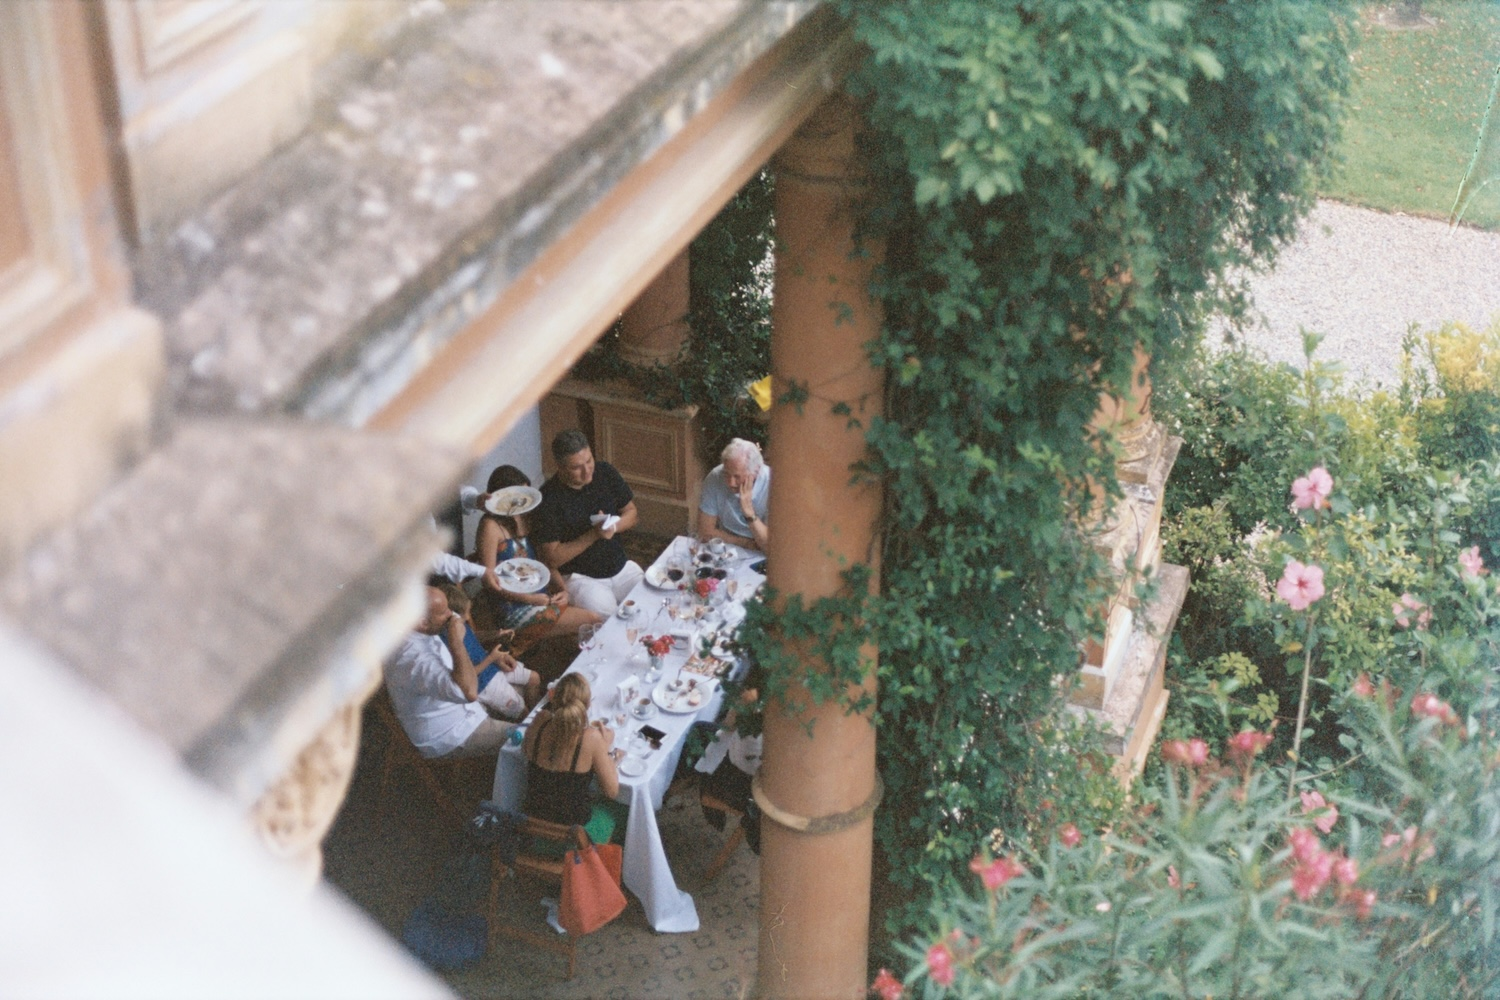
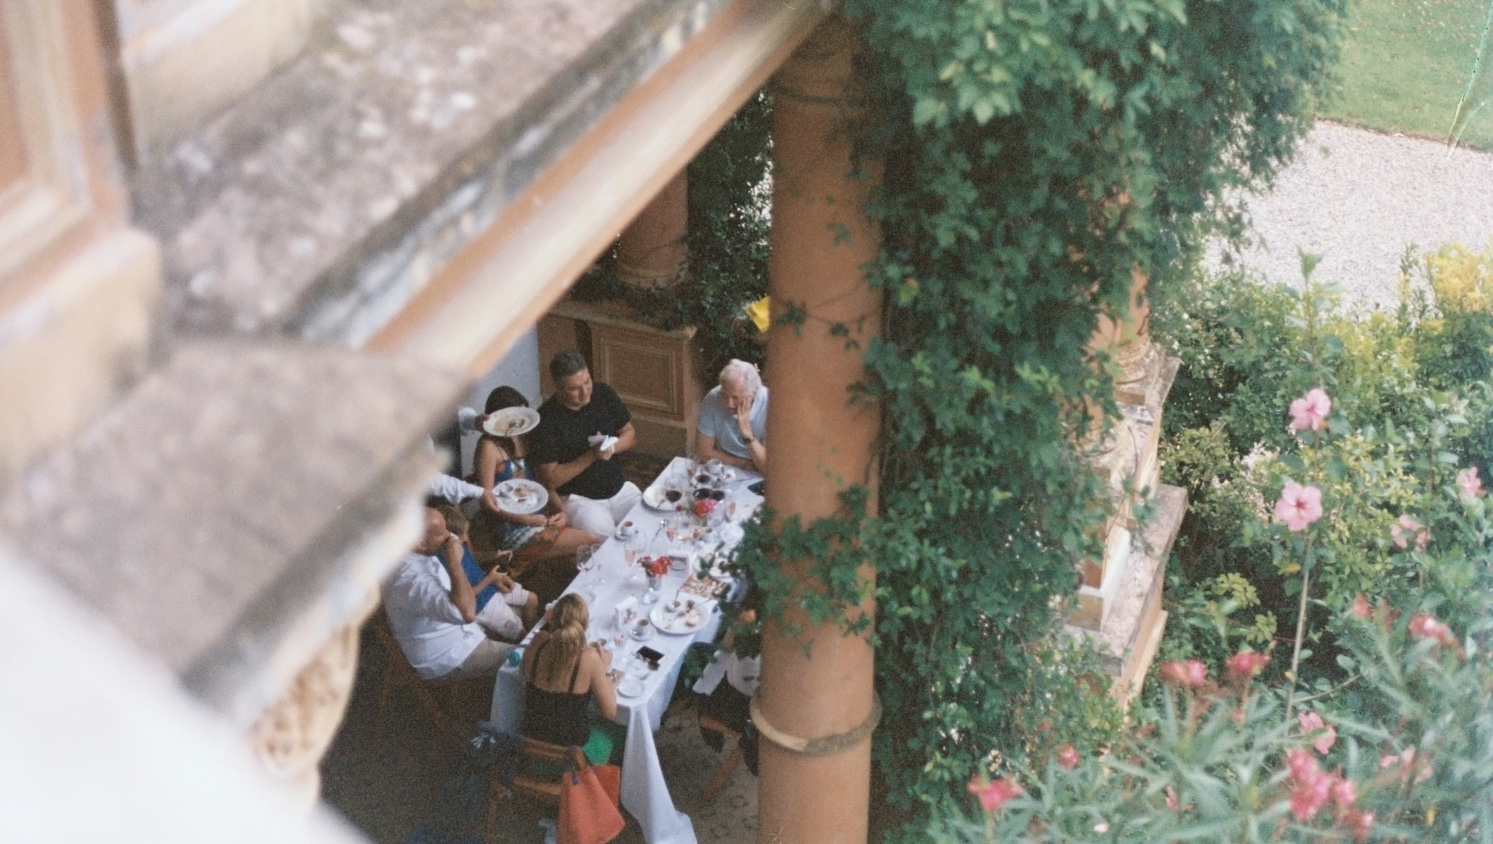
improve front page img

diff --git a/src/routes/+page.svelte b/src/routes/+page.svelte
@@ -71,6 +71,12 @@
   let showAlertOnSelectingSelf = false;
   let showAlertOnPageReload = false;
 
+  let isImageCartoon = true;
+
+  const toggleMainImage = () => {
+    isImageCartoon = !isImageCartoon;
+  };
+
   async function handleRegister(event) {
     name = event.detail.name;
     city = event.detail.city;
@@ -648,7 +654,7 @@
               <h2
                 class="text-3xl font-bold tracking-tight text-white sm:text-4xl"
               >
-                Quick lunch or coffee with friendly people around you?
+                Quick meet with friendly people around?
               </h2>
               <p class="mt-4 text-lg leading-8 text-gray-300">What do you want to talk about today? <br>(only 4 words)</p>
               <div class="mt-6 flex max-w-md gap-x-4">
@@ -882,7 +888,14 @@
                 <div class="divide-y divide-gray-100 mt-5">
                   <Tooltip text="Get inspired!" position="center">
                     <button on:click={openInspirationModal}>
-                      <img alt="front-img" src="/images/photos/hook_front.png"/>
+                      <div class="inspire-img" on:mouseenter={toggleMainImage} on:mouseleave={toggleMainImage}>
+                        <div class={`transition-opacity duration-1000 ease-in-out ${isImageCartoon ? 'opacity-0' : 'opacity-100'}`}>
+                          <img alt="front-img" src="/images/photos/hook_front.jpg" class="w-full h-full object-cover" />
+                        </div>
+                        <div class={`transition-opacity duration-1000 ease-in-out ${isImageCartoon ? 'opacity-100' : 'opacity-0'}`}>
+                          <img alt="cartoon-img" src="/images/photos/hook_front_cartoon.png" class="w-full h-full object-cover" />
+                        </div>
+                      </div>
                     </button>
                   </Tooltip>
                 </div>
@@ -929,4 +942,16 @@
   }
   /* avatar loader end */
 
+
+  .inspire-img {
+    display: grid;
+    grid-template-columns: 1fr;
+    overflow: hidden;
+  }
+
+  .inspire-img div {
+    grid-row-start: 1;
+    grid-column-start: 1;
+    position: relative;
+  }
 </style>

diff --git a/src/lib/Inspiration.svelte b/src/lib/Inspiration.svelte
@@ -56,7 +56,7 @@
             on:mouseleave={toggleImages}
         >
             <h1 class="text-6xl font-bold text-center text-gray-700 py-5">#1</h1>
-            <h1 class="text-4xl font-bold text-center text-gray-700 py-5">Choose your keywords, rough location and time</h1>
+            <h1 class="text-4xl font-bold text-center text-gray-700 py-5">Choose your keywords, location and time</h1>
         </div>
     </div>
     <div 
@@ -69,7 +69,7 @@
             on:mouseleave={toggleImages}
         >
             <h1 class="text-6xl font-bold text-center text-gray-700 py-5">#1</h1>
-            <h1 class="text-4xl font-bold text-center text-gray-700 py-5">Choose your keywords, rough location and time</h1>
+            <h1 class="text-4xl font-bold text-center text-gray-700 py-5">Choose your keywords, location and time</h1>
         </div>
     </div>
 </section>

diff --git a/src/lib/Footer.svelte b/src/lib/Footer.svelte
@@ -9,7 +9,7 @@
     <div class="container mx-auto flex md:flex-row justify-evenly">
       <div class="text-center md:text-left">
         <!-- <p class="text-lg font-semibold">Hook Cafe</p> -->
-        <p class="mt-2 text-sm">Inspired in Beirut <br>by <a class="hover:underline" href="https://www.instagram.com/hook.beirut/" target="_blank">real Hook Cafe</a></p>
+        <p class="mt-2 text-sm">Inspired in Beirut by<br><a class="hover:underline" href="https://www.instagram.com/hook.beirut/" target="_blank">the real Hook Cafe</a></p>
       </div>
   
       <div class="mt-4">

diff --git a/src/lib/Login.svelte b/src/lib/Login.svelte
@@ -245,7 +245,7 @@
       </div> -->
 
       <p class="mt-10 text-center text-sm text-gray-500">
-        Already have profile?
+        Been here before?
         <button
           on:click={switchHasProfile}
           class="font-semibold leading-6 text-teal-600 hover:text-teal-500"
